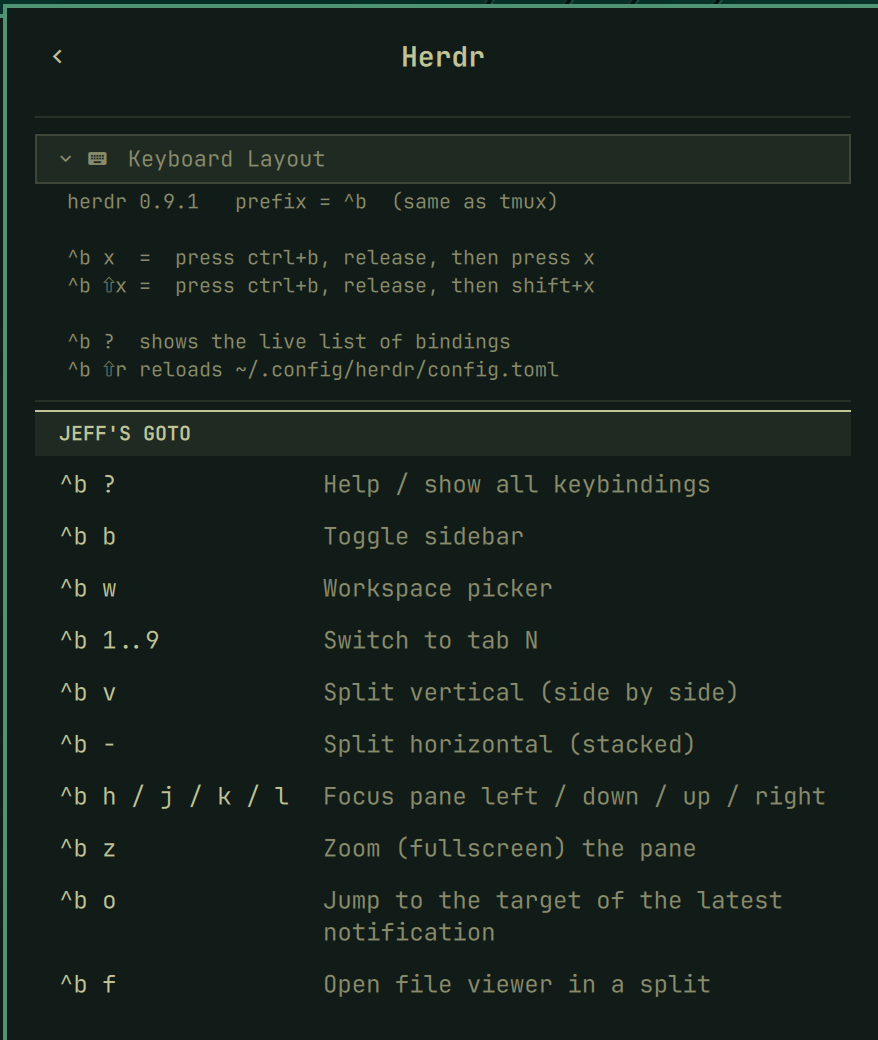
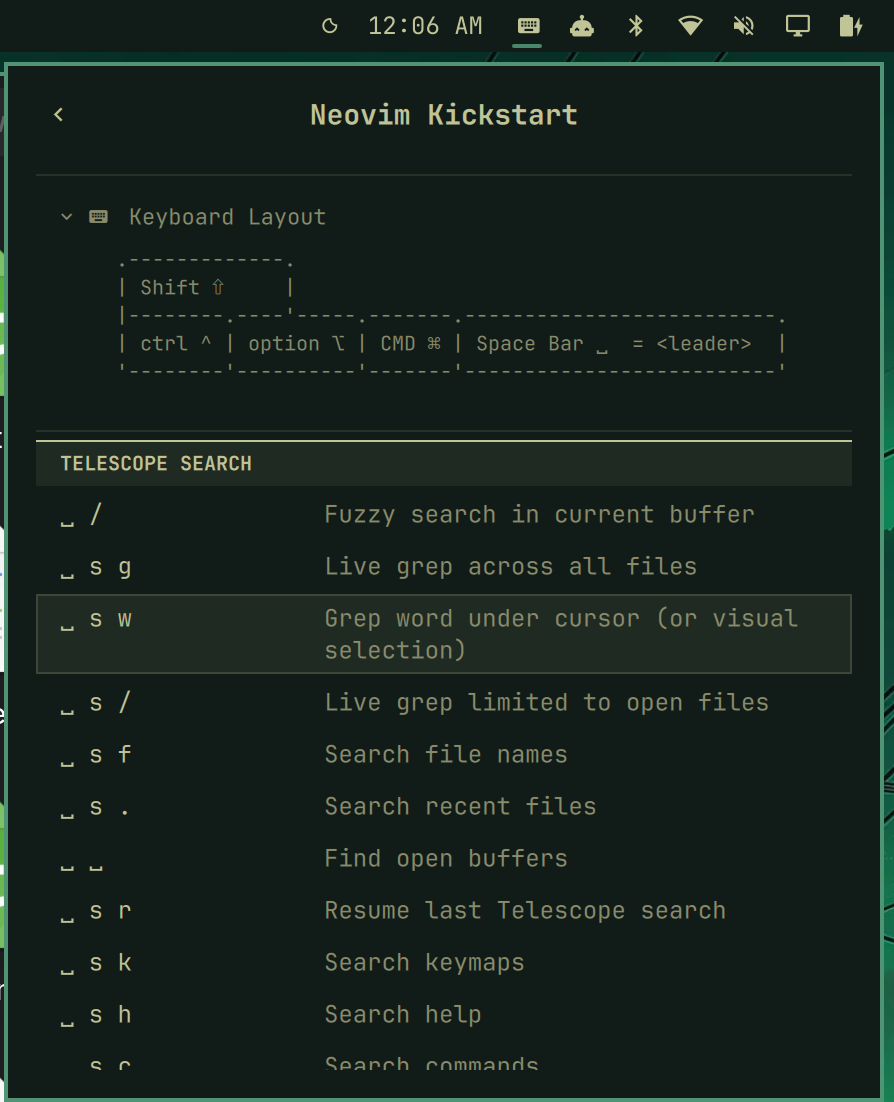
Update the docs

diff --git a/README.md b/README.md
@@ -4,7 +4,8 @@ Your own keyboard-shortcut cheat sheets for any app, written in Markdown, search
 
 ThockRef adds a keyboard icon to the bar. Click it (or press a hotkey) to get a searchable list of shortcut "libraries": one Markdown file per app, tool, or workflow. Type to search every shortcut in every library at once, or open a library to browse its sections, its optional keyboard-layout legend, and its links.
 
-![ThockRef panel](preview.png)
+![ThockRef Keymap List](preview1.png)
+![ThockRef Neovim Kickstart List](preview.png)
 
 It is the Linux counterpart of the [ThockRef macOS menu-bar app](https://github.com/jsheffie/ThockRef). Both read the same files from the same directory, so a set of cheat sheets works on either machine.
 
